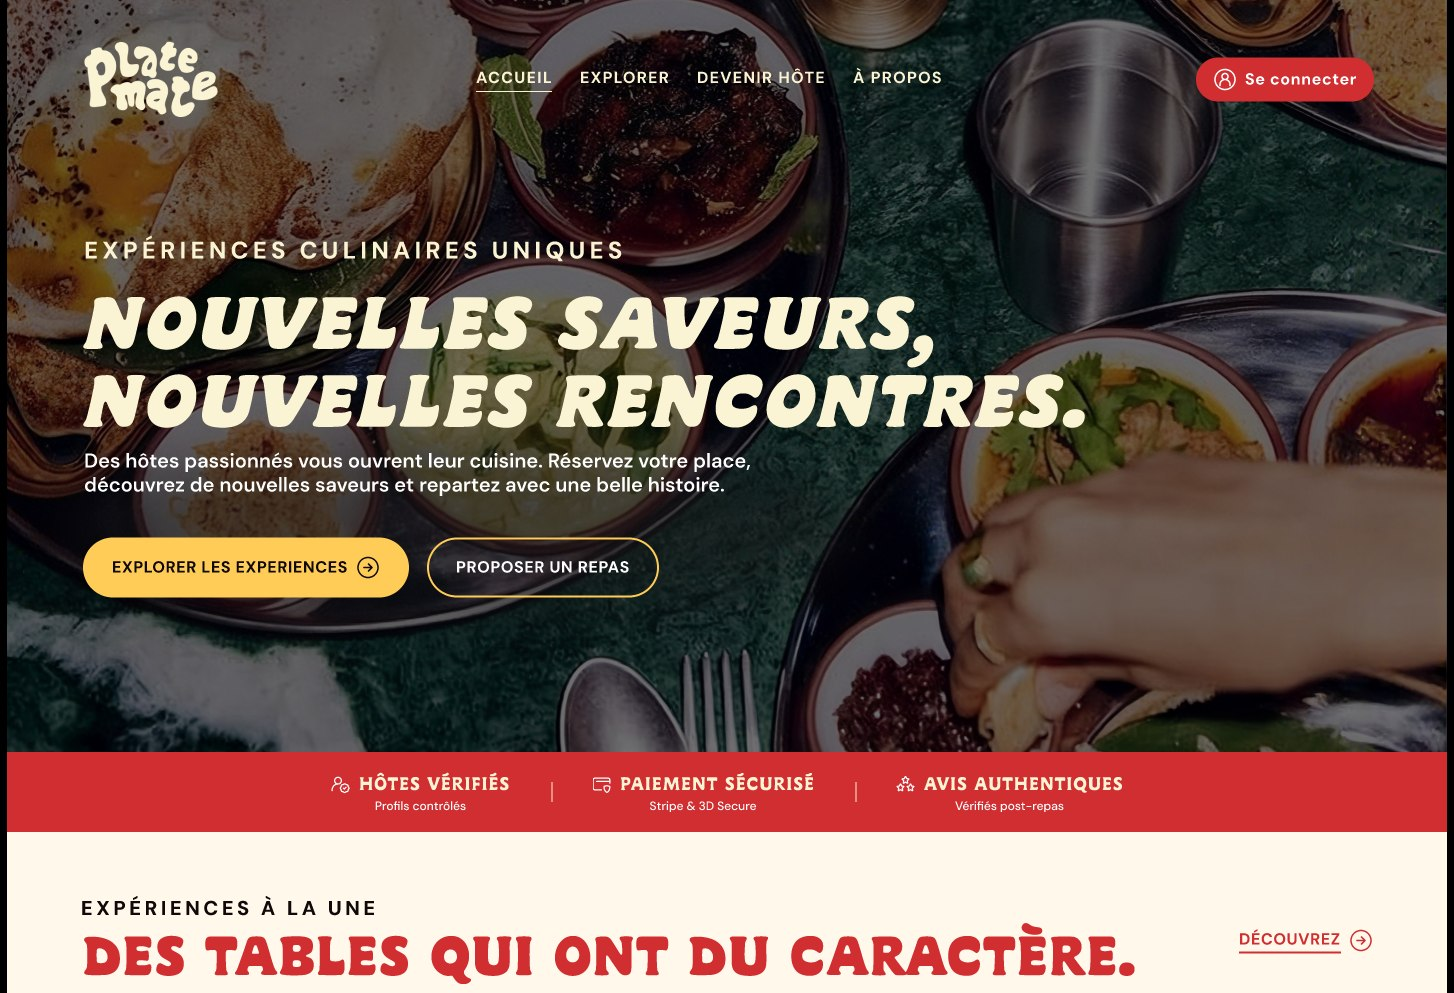
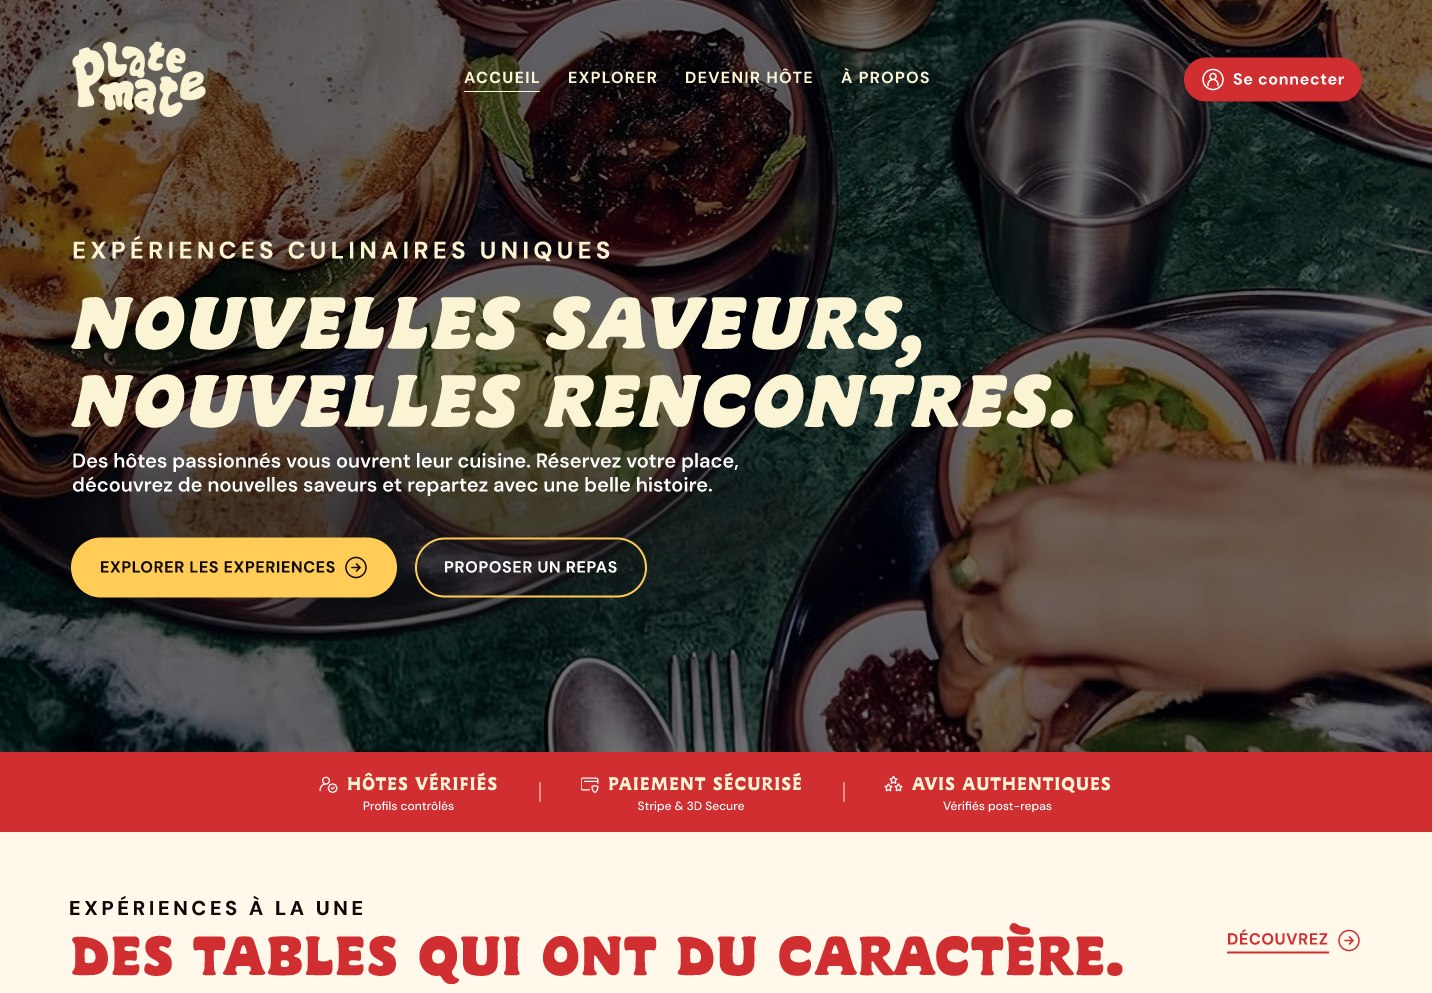
feat: update PlateMate branding and add Trace Zero

diff --git a/src/data/projects.js b/src/data/projects.js
@@ -106,7 +106,8 @@ const webProjectOverrides = {
       en: "PlateMate connects hosts who love cooking with guests looking for welcoming local experiences. Created as a team project for My Digital Startup, it explores a complete journey including table discovery, profiles, menu creation, booking and secure payment with Stripe. I contribute to the design and implementation of a responsive, inclusive and accessible experience through semantic structure, keyboard navigation, readable contrast and components that work for everyone. The product is still in development.",
     },
     image: "/assets/platemate/platemate-cover.jpg",
-    tabIcon: "/assets/platemate/platemate-logo.svg",
+    tabIcon: "/assets/platemate/platemate-logo.png",
+    preserveTabIconColor: true,
     slides: ["/assets/platemate/platemate-cover.jpg"],
     githubUrl: null,
     tools: {
@@ -131,6 +132,24 @@ const webProjectOverrides = {
     githubUrl: "https://github.com/Mahkalix/Dimension",
     siteUrl: "https://dimensionmusic.netlify.app/",
     tools: technologyIcons,
+  },
+  4: {
+    slug: "trace-zero",
+    title: "Trace//Zero",
+    year: "2026",
+    status: { fr: "En cours", en: "In progress" },
+    use: { fr: "Expérience numérique", en: "Digital experience" },
+    description: {
+      fr: "Trace//Zero est un concept d’expérience numérique autour de l’identité et de l’empreinte laissée en ligne. L’interface met en scène les traces générées au fil de la navigation — données, habitudes et signaux invisibles — puis propose un parcours pour les comprendre, les maîtriser et revenir vers une présence numérique minimale. Le projet explore une direction visuelle technique et immersive, avec une attention particulière portée à la lisibilité et à l’accessibilité. Il est encore en phase de conception et ne possède pas encore de capture définitive.",
+      en: "Trace//Zero is a digital experience concept about identity and the footprint people leave online. The interface reveals the traces created while browsing — data, habits and invisible signals — then guides users through understanding and controlling them to move towards a minimal digital presence. The project explores a technical, immersive visual direction with particular attention to readability and accessibility. It is still in its design phase and does not yet have a final screenshot.",
+    },
+    image: null,
+    slides: [],
+    hideTabIcon: true,
+    githubUrl: null,
+    tools: {
+      Figma: technologyIcons.Figma,
+    },
   },
   0: {
     slug: "kasa",

diff --git a/src/i18n/content.js b/src/i18n/content.js
@@ -57,7 +57,7 @@ export const content = {
       label: "Carte d’identité de Maxence Badin-Léger", portrait: "Portrait", name: "Nom", birth: "Naissance", birthValue: "11 août 2001", origin: "Origine", occupations: "Activités",
       jobs: ["Développeuse front-end", "Développeuse full-stack", "Intégratrice web", "Designer"],
     },
-    carousel: { gallery: "Galerie", previous: "Image précédente", next: "Image suivante", choose: "Choisir une image", show: "Afficher l’image", view: "vue" },
+    carousel: { gallery: "Galerie", previous: "Image précédente", next: "Image suivante", choose: "Choisir une image", show: "Afficher l’image", view: "vue", previewPending: "Aperçu à venir" },
     detail: { notFound: "Projet introuvable", return: "Retour aux projets", overview: "Présentation du projet", year: "Année", use: "Usage", category: "Catégorie", design: "Design", development: "Développement", visitSite: "Visiter le site de", visitGithub: "Visiter le profil GitHub de Maxence", technologies: "Technologies utilisées" },
     spider: "Animer l’araignée",
   },
@@ -119,7 +119,7 @@ export const content = {
       label: "Pass card for Maxence Badin-Léger", portrait: "Portrait", name: "Name", birth: "Birth", birthValue: "August 11, 2001", origin: "Origin", occupations: "Occupations",
       jobs: ["Front-end Developer", "Full-Stack Developer", "Web Integrator", "Designer"],
     },
-    carousel: { gallery: "gallery", previous: "Previous image", next: "Next image", choose: "Choose image", show: "Show image", view: "view" },
+    carousel: { gallery: "gallery", previous: "Previous image", next: "Next image", choose: "Choose image", show: "Show image", view: "view", previewPending: "Preview coming soon" },
     detail: { notFound: "Project not found", return: "Return to projects", overview: "Project overview", year: "Year", use: "Use", category: "Category", design: "Design", development: "Development", visitSite: "Visit the website for", visitGithub: "Visit Maxence’s GitHub profile", technologies: "Technologies used" },
     spider: "Animate the spider",
   },

diff --git a/src/components/Carousel.jsx b/src/components/Carousel.jsx
@@ -72,9 +72,19 @@ function Carousel({ items, activeSlug, title, fit = "contain", variant = "wide",
               data-position={position}
               key={item.slug}
               aria-hidden={index !== activeIndex}
-              style={{ "--slide-bg": item.background || "#000" }}
+              style={{
+                "--slide-bg": item.background || "#000",
+                "--slide-fg": item.foreground || "#fff",
+              }}
             >
-              <img src={item.image} alt={`${item.title} — ${copy.carousel.view} ${index + 1}`} draggable="false" />
+              {item.image ? (
+                <img src={item.image} alt={`${item.title} — ${copy.carousel.view} ${index + 1}`} draggable="false" />
+              ) : (
+                <span className="c-carousel__placeholder">
+                  <strong>{item.title}</strong>
+                  <small>{copy.carousel.previewPending}</small>
+                </span>
+              )}
             </figure>
           );
         })}

diff --git a/src/components/ProjectStack.jsx b/src/components/ProjectStack.jsx
@@ -16,11 +16,16 @@ function ProjectStack() {
           }}
         >
           <span className="c-project-stack__tab" aria-hidden="true">
-            <img
-              className={project.tabIcon ? "is-project-logo" : undefined}
-              src={project.tabIcon || "/assets/figma/project-tab-spider.png"}
-              alt=""
-            />
+            {!project.hideTabIcon ? (
+              <img
+                className={[
+                  project.tabIcon ? "is-project-logo" : "",
+                  project.preserveTabIconColor ? "is-original-color" : "",
+                ].filter(Boolean).join(" ") || undefined}
+                src={project.tabIcon || "/assets/figma/project-tab-spider.png"}
+                alt=""
+              />
+            ) : null}
           </span>
           <span className="c-project-stack__heading">
             <span className="c-project-stack__title">{project.title}</span>

diff --git a/src/style/8_sections/_project-detail.scss b/src/style/8_sections/_project-detail.scss
@@ -162,6 +162,30 @@
 
   img { width: 100%; height: 100%; object-fit: cover; }
 
+  &__placeholder {
+    display: grid;
+    place-content: center;
+    gap: 14px;
+    width: 100%;
+    height: 100%;
+    padding: 24px;
+    color: var(--slide-fg, #fff);
+    text-align: center;
+    text-transform: uppercase;
+  }
+
+  &__placeholder strong {
+    font-family: $font-family-heading;
+    font-size: clamp(4rem, 7vw, 9rem);
+    line-height: .82;
+  }
+
+  &__placeholder small {
+    font-size: 1.4rem;
+    font-weight: 700;
+    letter-spacing: .08em;
+  }
+
   &--contain figure { background: var(--slide-bg, #000); }
   &--contain figure > img { object-fit: contain; }
   &--contain figure.is-previous > img,

diff --git a/src/style/8_sections/_home.scss b/src/style/8_sections/_home.scss
@@ -263,6 +263,10 @@
       object-fit: contain;
       filter: brightness(0);
     }
+
+    img.is-project-logo.is-original-color {
+      filter: none;
+    }
   }
   &__item:nth-child(1) {
     --card-rotate: -0.35deg;
